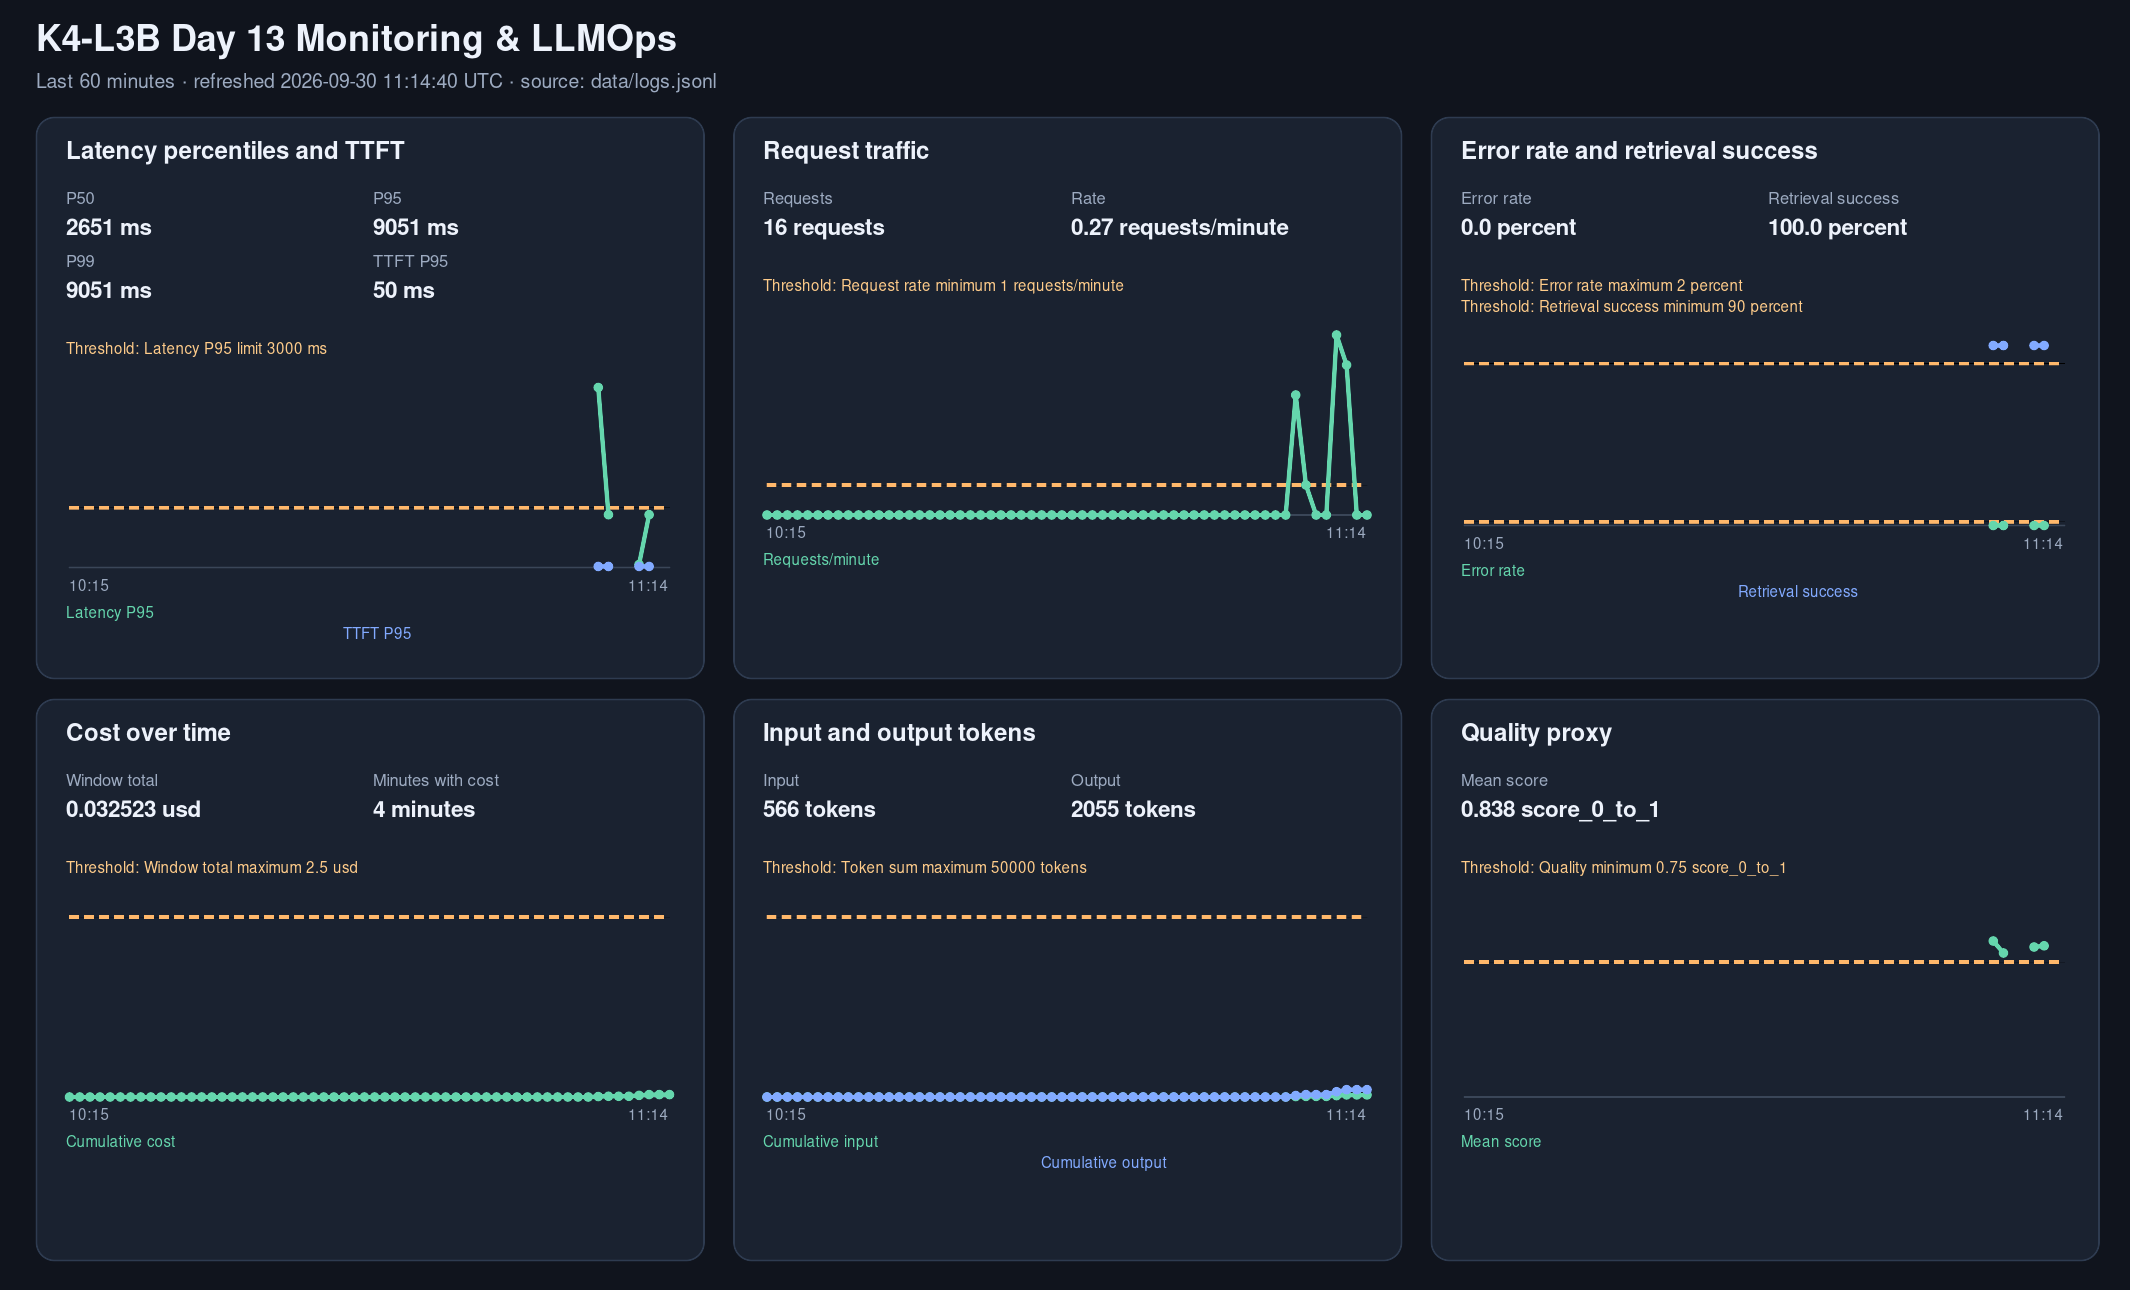
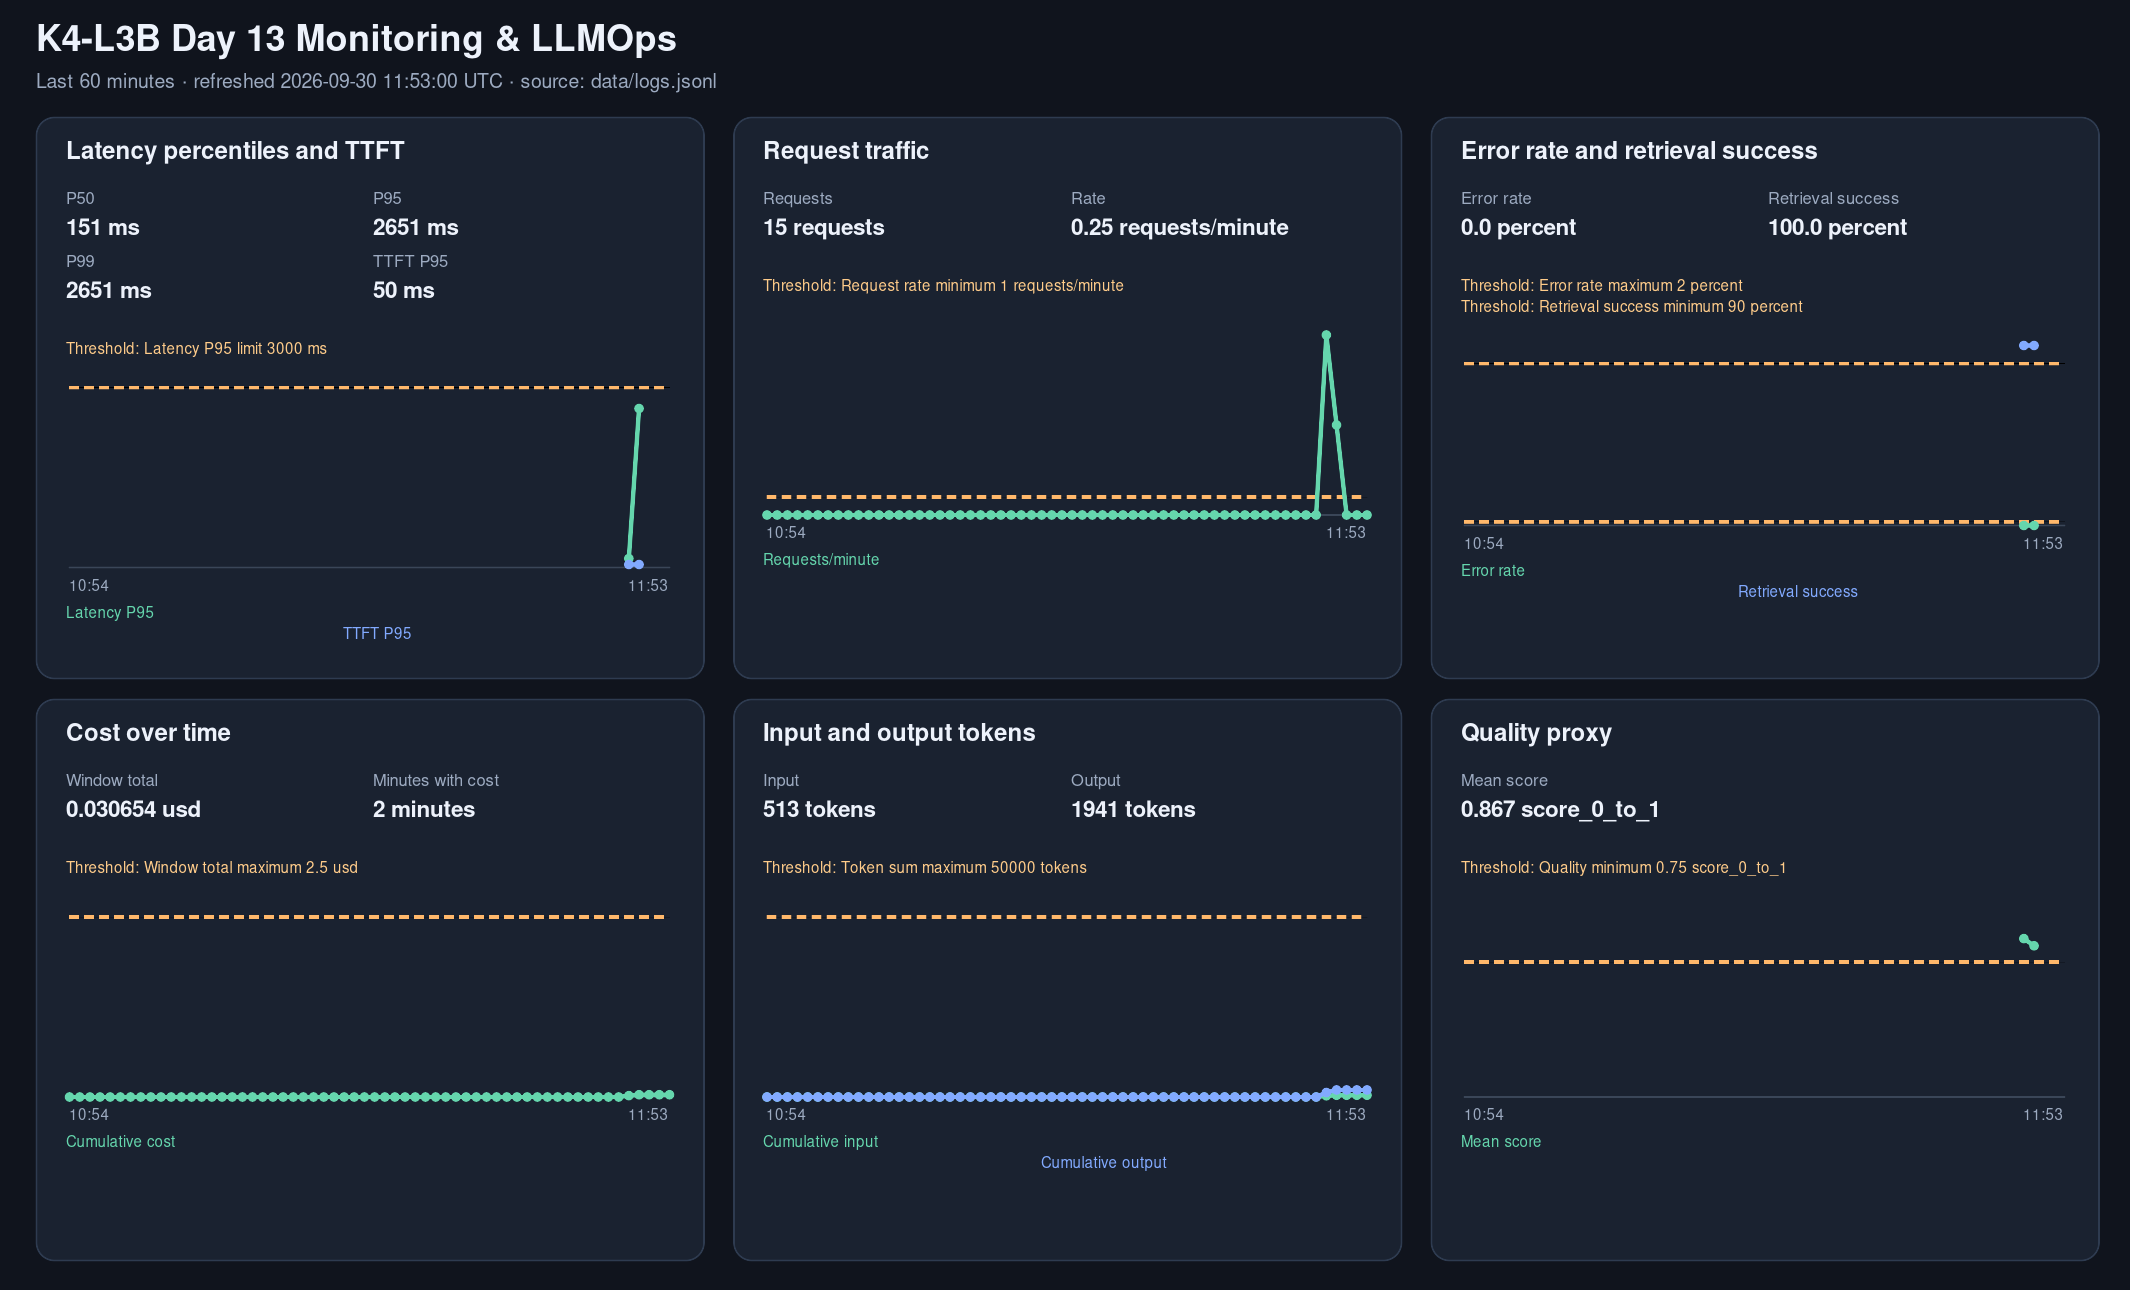
Reverify checkpoint 3 with clean baseline

diff --git a/submission/REPORT.md b/submission/REPORT.md
@@ -42,8 +42,8 @@
 | `pytest` | | 25 passed | `.venv/bin/python -m pytest -q` |
 | Số traces hợp lệ | | 14 trace đã kiểm chứng | 10 load-test trace và 4 trace baseline/candidate/promote/rollback; đều có root + retrieval + generation. |
 | Số PII leak | 0 | 0 | Validator và isolated API run. |
-| Latency P95 / TTFT P95 | | 9,051 ms / 50 ms | 16 request trong cửa sổ 60 phút; dashboard gồm outlier cold-prompt của lượt challenge thăm dò đầu. |
-| Retrieval success rate | | 100% | 16/16 tool result thành công; incident làm chậm retrieval nhưng không làm retrieval fail. |
+| Latency P95 / TTFT P95 | | 2,651 ms / 50 ms | 15 request trong log CP3 sạch: 10 baseline và 5 challenge. |
+| Retrieval success rate | | 100% | 15/15 tool result thành công; incident làm chậm retrieval nhưng không làm retrieval fail. |
 
 ## 4. Logging và PII
 
@@ -77,11 +77,11 @@
 ## 7. Điều tra challenge
 
 - **Challenge ID:** `day13-k4-l3b-monitoring-llmops-v1` (cohort K4; dùng file chính thức từ Lab Coach, không commit file challenge).
-- **Khoảng thời gian điều tra:** Baseline 11:11:54–11:11:55 UTC; incident 11:12:11–11:12:25 UTC.
-- **Triệu chứng từ metrics:** 5 baseline request có latency P95 151 ms; 5 request khi `rag_slow` bật có P95 2,653 ms, cả 5 đều vượt challenge threshold 2,000 ms. Retrieval success 5/5, error 0. Xem [incident metrics](evidence/12-incident-metric.txt) và [dashboard snapshot](evidence/12-incident-metric.png).
+- **Khoảng thời gian điều tra:** Baseline 11:49:55–11:49:56 UTC; incident 11:50:04–11:50:17 UTC.
+- **Triệu chứng từ metrics:** 10 baseline request có latency P95 151 ms; 5 request khi `rag_slow` bật có P95 2,651 ms, cả 5 đều vượt challenge threshold 2,000 ms. Retrieval success 5/5, error 0. Xem [incident metrics](evidence/12-incident-metric.txt) và [dashboard snapshot](evidence/12-incident-metric.png).
 - **Log line và correlation ID liên quan:** `response_sent` cho `req-5960db20` ghi `latency_ms=2651`, `tool_success=true`; log baseline/incident có trong [incident log](evidence/13-incident-log.txt).
 - **Trace ID và span gây ảnh hưởng:** Trace `5f069d236dd494d958ecf20dcf9e2a47`, cùng `correlation_id=req-5960db20`. Span `retrieval` mất 2.500 s, generation mất 0.151 s; xem [incident trace](evidence/14-incident-trace.txt).
-- **Root cause:** Incident challenge bật `rag_slow`, làm `retrieve()` thêm 2.5 giây; trace cho thấy thời gian chủ yếu nằm ở retrieval, còn generation giữ khoảng 0.15 giây. Lần chạy thăm dò đầu có một outlier 9.052 s với khoảng trống 6.4 giây trước generation; trace báo prompt source Langfuse nhưng không có fetch error, nên đây có thể là chi phí cold prompt fetch và được xem là yếu tố phụ.
+- **Root cause:** Incident challenge bật `rag_slow`, làm `retrieve()` thêm 2.5 giây; trace so sánh baseline/challenge cho thấy retrieval tăng từ khoảng 1 ms lên 2.5 s, còn generation giữ khoảng 0.15 giây. Một lượt thăm dò trước khi làm sạch log có outlier cold-prompt; lượt đó không nằm trong baseline/challenge CP3 sạch ở trên.
 - **Fix action:** Tắt incident sau khi thu thập bằng `python scripts/inject_incident.py --disable`; `/health` xác nhận cả ba incident đều `false`.
 - **Preventive measure:** Hạ alert `HighLatencyP95` xuống >2,000 ms trong 5 phút (baseline CP3 P95 151 ms) để cảnh báo trước SLO 3,000 ms; runbook yêu cầu nối dashboard → correlation ID trong log → trace retrieval/generation.
 
